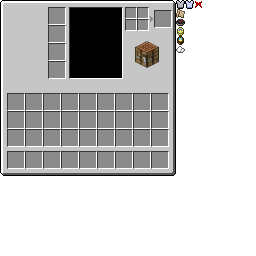
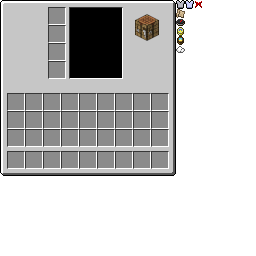
Removed unused crafting grid from texture

Changed region(s): [[0.4688, 0.0, 0.6875, 0.2812]]

diff --git a/src/main/java/useless/legacyui/Gui/GuiLegacyInventory.java b/src/main/java/useless/legacyui/Gui/GuiLegacyInventory.java
@@ -34,7 +34,7 @@ public class GuiLegacyInventory extends GuiInventory{
     public void initGui(){
         super.initGui();
         this.ySize = 176;
-        craftingButton = new GuiButton(10, (width - xSize) / 2 + 136, (height - ySize) / 2 + 42, 24, 27, "");
+        craftingButton = new GuiButton(10, (width - xSize) / 2 + 136, (height - ySize) / 2 + 15, 24, 27, "");
         craftingButton.visible = false;
         controlList.add(craftingButton);
     }
